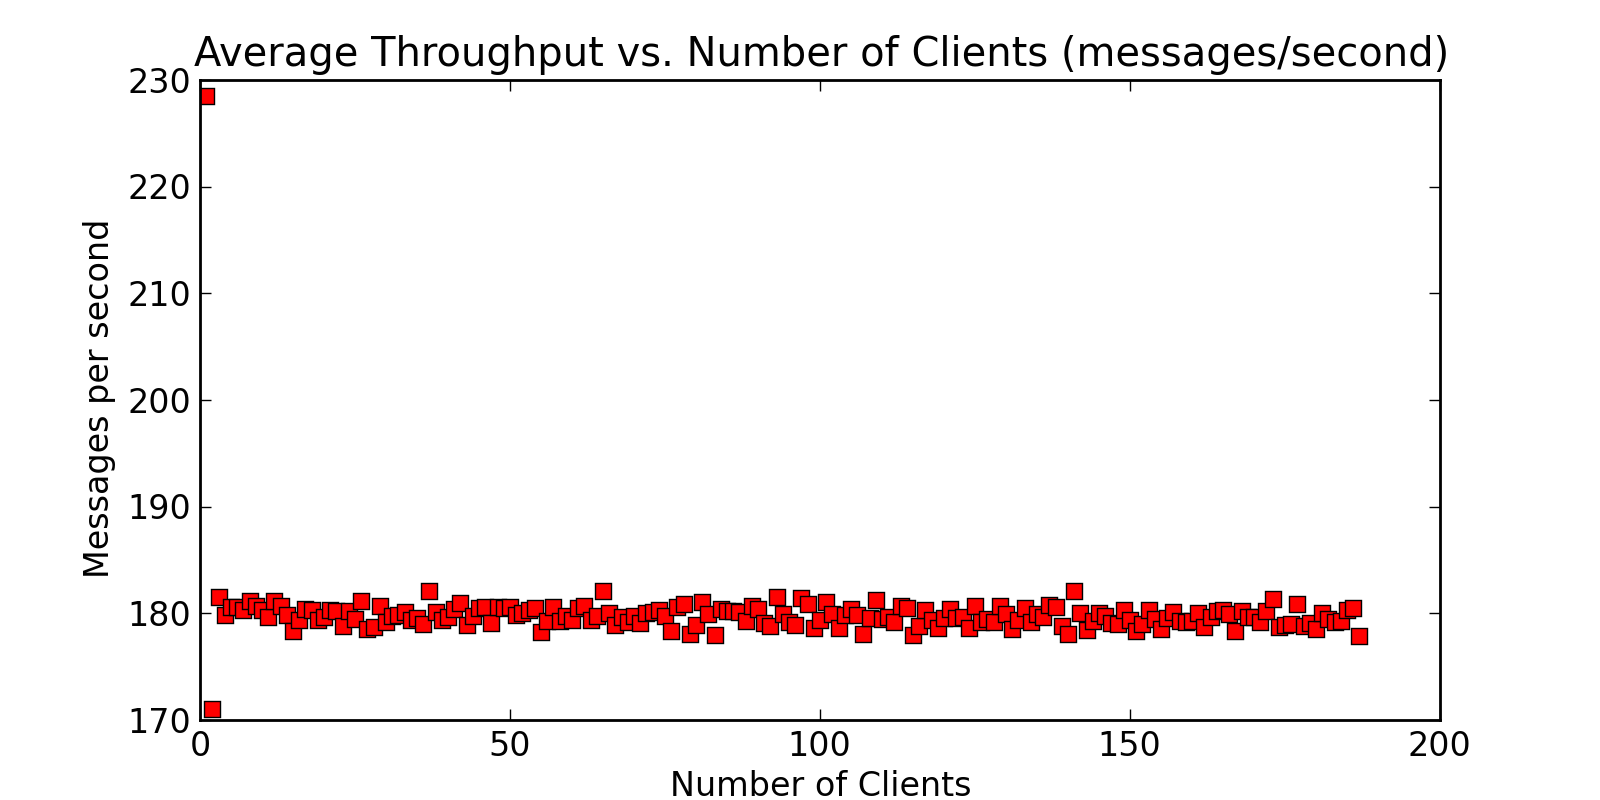
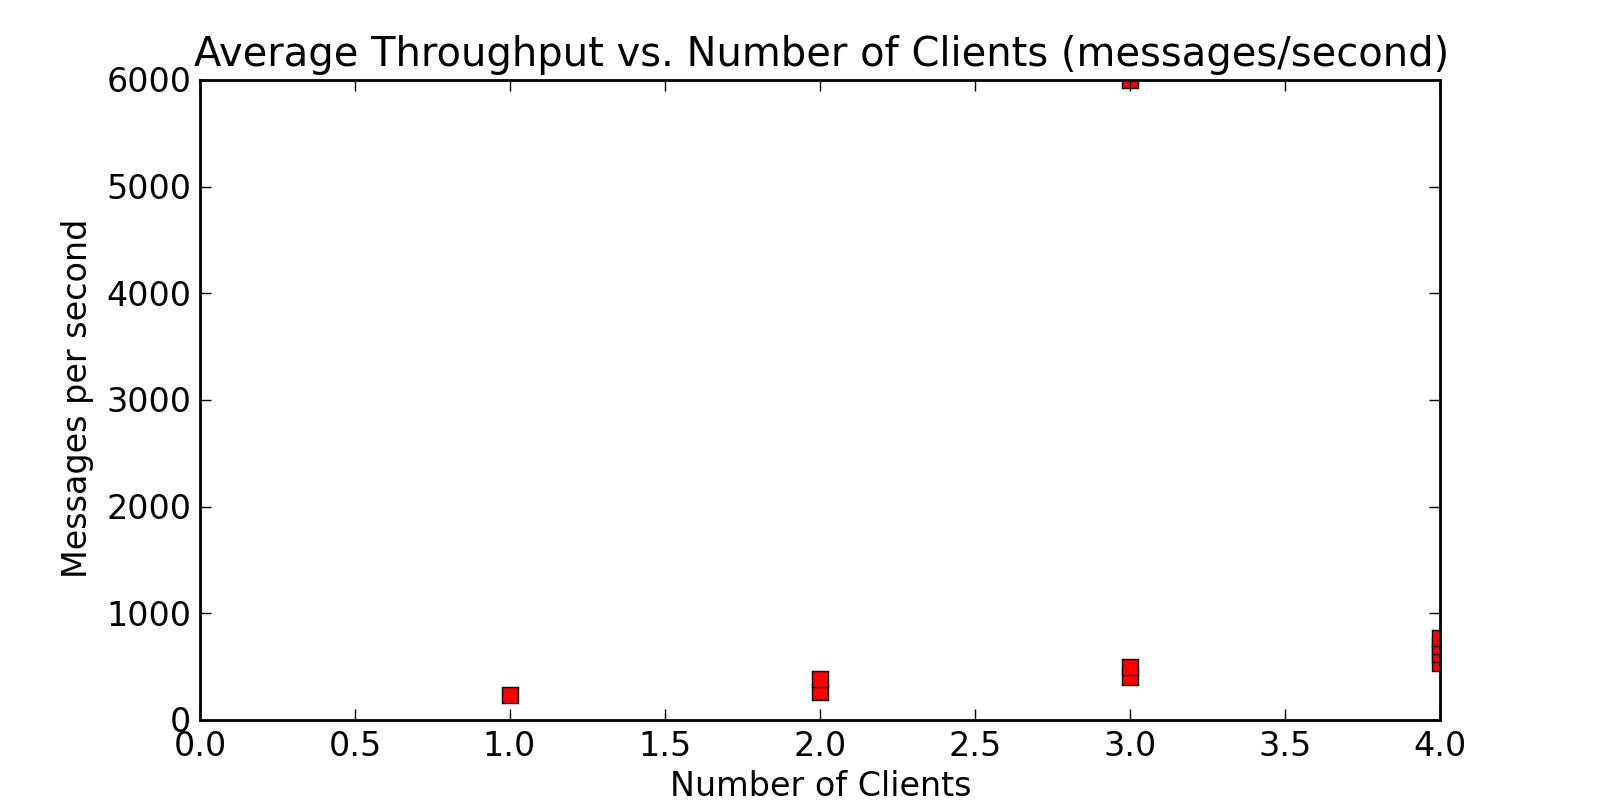
Changed chatroom server to create new processes rather than create many client objects on a single process

diff --git a/performance/plotify3.py b/performance/plotify3.py
@@ -1,4 +1,5 @@
 import matplotlib.pyplot as plt
+import numpy as np
 import sys
 
 def plotify():
@@ -8,14 +9,16 @@ def plotify():
     Note that only the anaconda python version works. (cuz it has all
     the goodies and stuffz)
 
-    Requires only a "client" file.
+    Requires super raw data, where each client is listed out (
+    as opposed to aggregated raw data, which lists numbers of
+    clients out one by one)
     '''
     fileName = 'clientLog'
     if(len(sys.argv) >= 2):
         fileName = sys.argv[1]
 
     x = []
-    clientY = []
+    y = []
 
     with open(fileName, 'r') as clientLog:
 
@@ -23,10 +26,26 @@ def plotify():
             cData = clientData.split()
 
             if cData is not []:
-                x.append(cData[0])
-                clientY.append(float(cData[0]) * float(cData[2]) / (float(cData[1])))
 
-    plt.plot(x, clientY, 'rs')
+                datum = float(cData[0]) * float(cData[2]) / (float(cData[1]))
+                if(cData[0] not in x):
+                    x.append(float(cData[0])) #brings me back to my usaco dayz
+                    y.append([datum])
+                else:
+                    y[x.index(float(cData[0]))].append(datum)
+
+    processed = []
+    for yList in y:
+        thing = sum(yList) / len(yList)
+        processed.append(thing)
+
+    plt.plot(x, processed, 'rs')
+
+    xr = np.array(x)
+    yr = np.array(processed)
+    yerr = np.array([.1,.1,.1,.1,.1,.1,.1,.1,.1,.1])
+
+    plt.errorbar(xr, yr, yerr=yerr)
     plt.title('Average Latency vs. Number of Clients (seconds/message)')
     plt.xlabel('Number of Clients')
     plt.ylabel('Seconds per message')
@@ -37,10 +56,10 @@ def plotify():
     plt.show()
     plt.clf()
 
-    for i in range(len(clientY)):
-        clientY[i] = (i + 1) / clientY[i]
+    for i in range(len(processed)):
+        processed[i] = (i + 1) / processed[i]
 
-    plt.plot(x, clientY, 'rs')
+    plt.plot(x, processed, 'rs')
     plt.title('Average Throughput vs. Number of Clients (messages/second)')
     plt.xlabel('Number of Clients')
     plt.ylabel('Messages per second')

diff --git a/performance/behram/server.py b/performance/behram/server.py
@@ -1,5 +1,6 @@
+#!/usr/bin/env python
+
 from emitted import Server
-import subprocess
 import time
 import sys
 sys.path.append("../../")
@@ -10,30 +11,23 @@ PORT = 9028
 SLEEPTIME = .001
 numMessages = 1000
 startTime = 0
-timeout = 10
-numKilled = 0
 
-if(len(sys.argv) >= 2):
-        timeOut = sys.argv[1]
-
-f = open('clientLog', 'w')
-f.close()
 f = open('serverLog', 'w')
 n = 1
 
 def connected(endpoint):
-        global timeout
-        global numKilled
         print 'Started'
         startTime = time.time()
+        keepGoing = True
         counter = 0
-        while True:
+        while keepGoing:
                 endpoint.service_signal()
                 counter += 1
                 if counter % 1000 == 999:
-                        if time.time() - startTime > timeout:
-                                numKilled += 1
+                        if time.time() - startTime > 10:
                                 endpoint.stop()
+                                break
+                                #break
                                 #todo:
                                 #have the client only send new messages after
                                 #this time has been finished (to prevent
@@ -45,6 +39,7 @@ def connected(endpoint):
                 #
                 #Never mind, the connected_callback needs to be
                 #destroyed when the endpoint is disconnected
+
 
 def display_msg(endpoint, msg):
         global f
@@ -61,12 +56,7 @@ def display_msg(endpoint, msg):
 Waldo.tcp_accept(Server, HOSTNAME, PORT, display_msg, connected_callback = connected)
 
 print 'Server is up and running.'
-#while True:
-#	pass
-for i in range(1, 3):
-        for k in range(0, i):
-                subprocess.Popen("python client.py " + str(i))
+time.sleep(15)
 
-        while(numKilled < i):
-                time.sleep(5)
-        numKilled = 0
+# while True:
+# 	pass

diff --git a/performance/chatroom/client.py b/performance/chatroom/client.py
@@ -7,19 +7,28 @@ HOSTNAME = '127.0.0.1'
 PORT = 9028
 numMessages = 1000
 
-f = open('clientLog', 'w')
+#f = open('clientLog', 'a')
 
-for i in range(1,100000):
-        client = Waldo.tcp_connect(Client, HOSTNAME, PORT)
+client = Waldo.tcp_connect(Client, HOSTNAME, PORT)
 
-        print 'Started'
-        f.write(str(i) + ' ' + str(numMessages) + ' ')
-        startTime = time.time()
+print 'Started'
+#f.write(str(i) + ' ' + str(numMessages) + ' ')
+startTime = time.time()
 
-        for n in range(0, numMessages):
-                client.send_msg(str(n))
+for n in range(0, numMessages):
+        client.send_msg(str(n))
 
-        f.write(str(time.time() - startTime) + '\n')
-        print "Finished: " + str(time.time() - startTime) + '\n'
+#f.write(str(time.time() - startTime) + '\n')
+totalTime = time.time() - startTime
+print "Finished: " + str(totalTime) + '\n'
 
-f.close()
+f = open('clientLog', 'a')
+numClients = 0
+if(len(sys.argv) >= 2):
+        numClients = sys.argv[1]
+        print numClients
+
+f.write(str(numClients) + ' ' + str(numMessages) + ' ' + str(totalTime) + '\n')
+
+
+#f.close()

diff --git a/performance/behram/client.py b/performance/behram/client.py
@@ -1,0 +1,35 @@
+#!/usr/bin/env python
+from emitted import Client
+import sys
+import time
+sys.path.append("../../")
+from waldo.lib import Waldo
+
+HOSTNAME = '127.0.0.1'
+PORT = 9028
+numMessages = 10000
+
+f = open('clientLog', 'w')
+
+for i in range(1,100000):
+        client = Waldo.tcp_connect(Client, HOSTNAME, PORT)
+
+        print 'Started'
+        f.write(str(i) + ' ' + str(numMessages) + ' ')
+        startTime = time.time()
+
+        stop_except = False
+        try:
+                for n in range(0, numMessages):
+                        client.send_msg(str(n))
+        except Waldo.StoppedException:
+                print '\nReceived stop and closing\n'
+                stop_except = True
+
+        f.write(str(time.time() - startTime) + '\n')
+        print "Finished: " + str(time.time() - startTime) + '\n'
+
+        #if stop_except:
+        #        break
+        
+f.close()

diff --git a/performance/chatroom/spawn.py b/performance/chatroom/spawn.py
@@ -1,8 +1,16 @@
 import time
 import subprocess
 
-
 f = open('clientLog', 'w')
+f.close()
 
-for i in range(1, 16):
-    
+servTimeOut = 10
+clientTimeOut = 15
+
+server = subprocess.Popen("python server.py " + str(servTimeOut))
+for i in range(0, 2):
+    for k in range(0, i):
+        subprocess.Popen("python client.py " + str(i))
+    time.sleep(clientTimeOut * i)
+
+server.kill()
